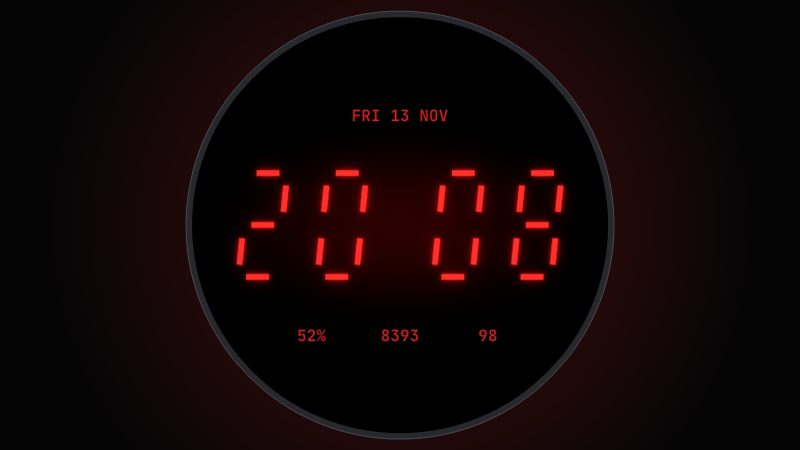
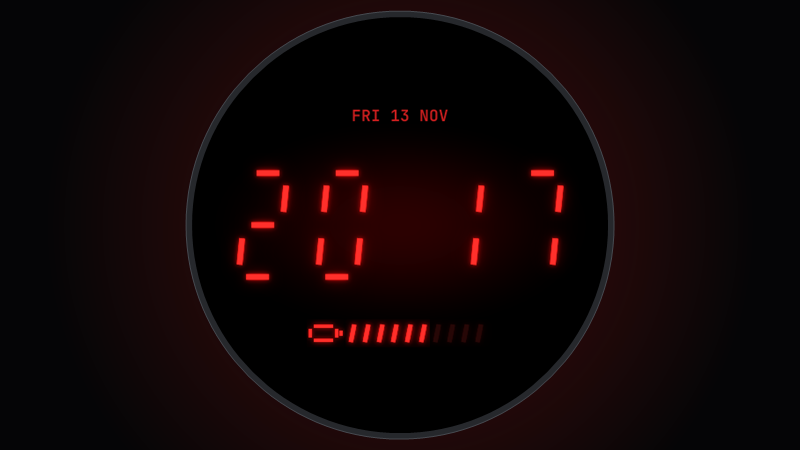
Predator watch face card: v2.1

diff --git a/index.html b/index.html
@@ -506,7 +506,7 @@ archive/  profile.txt</span>
         <a class="shot" href="https://github.com/hackthecode/predator-watchface" tabindex="-1" aria-hidden="true"><img src="assets/shot-predator-watchface.png" width="800" height="450" alt="Predator watch face: red dash-style digits on black" loading="lazy"></a>
         <div class="card-top"><span class="live"><span class="dot"></span>APK</span><span data-bg="циферблат">watch face</span></div>
         <h3>Predator</h3>
-        <p data-bg="Китков дисплей на ловец за Wear OS: яркочервени чертички върху чисто черно. Показва часа две секунди, после пет секунди превърта извънземни символи, и така докато екранът свети. Докосване включва топлинно виждане.">A hunter's wrist display for Wear OS: bright red dashes on pure black. It shows the time for two seconds, then runs through alien symbols for five, for as long as the screen is on. A tap switches to heat vision.</p>
+        <p data-bg="Китков дисплей на ловец за Wear OS: яркочервени чертички върху чисто черно. Показва часа една секунда, после пет секунди превърта извънземни символи, и така докато екранът свети. Батерията е ред от десет чертички.">A hunter's wrist display for Wear OS: bright red dashes on pure black. It shows the time for one second, then runs through alien symbols for five, for as long as the screen is on. The battery is a row of ten dashes.</p>
         <ul class="chips"><li>Wear OS</li><li>Watch Face Format</li><li>C#</li></ul>
         <span class="gh" data-repo="predator-watchface" hidden></span>
         <div class="cta">
